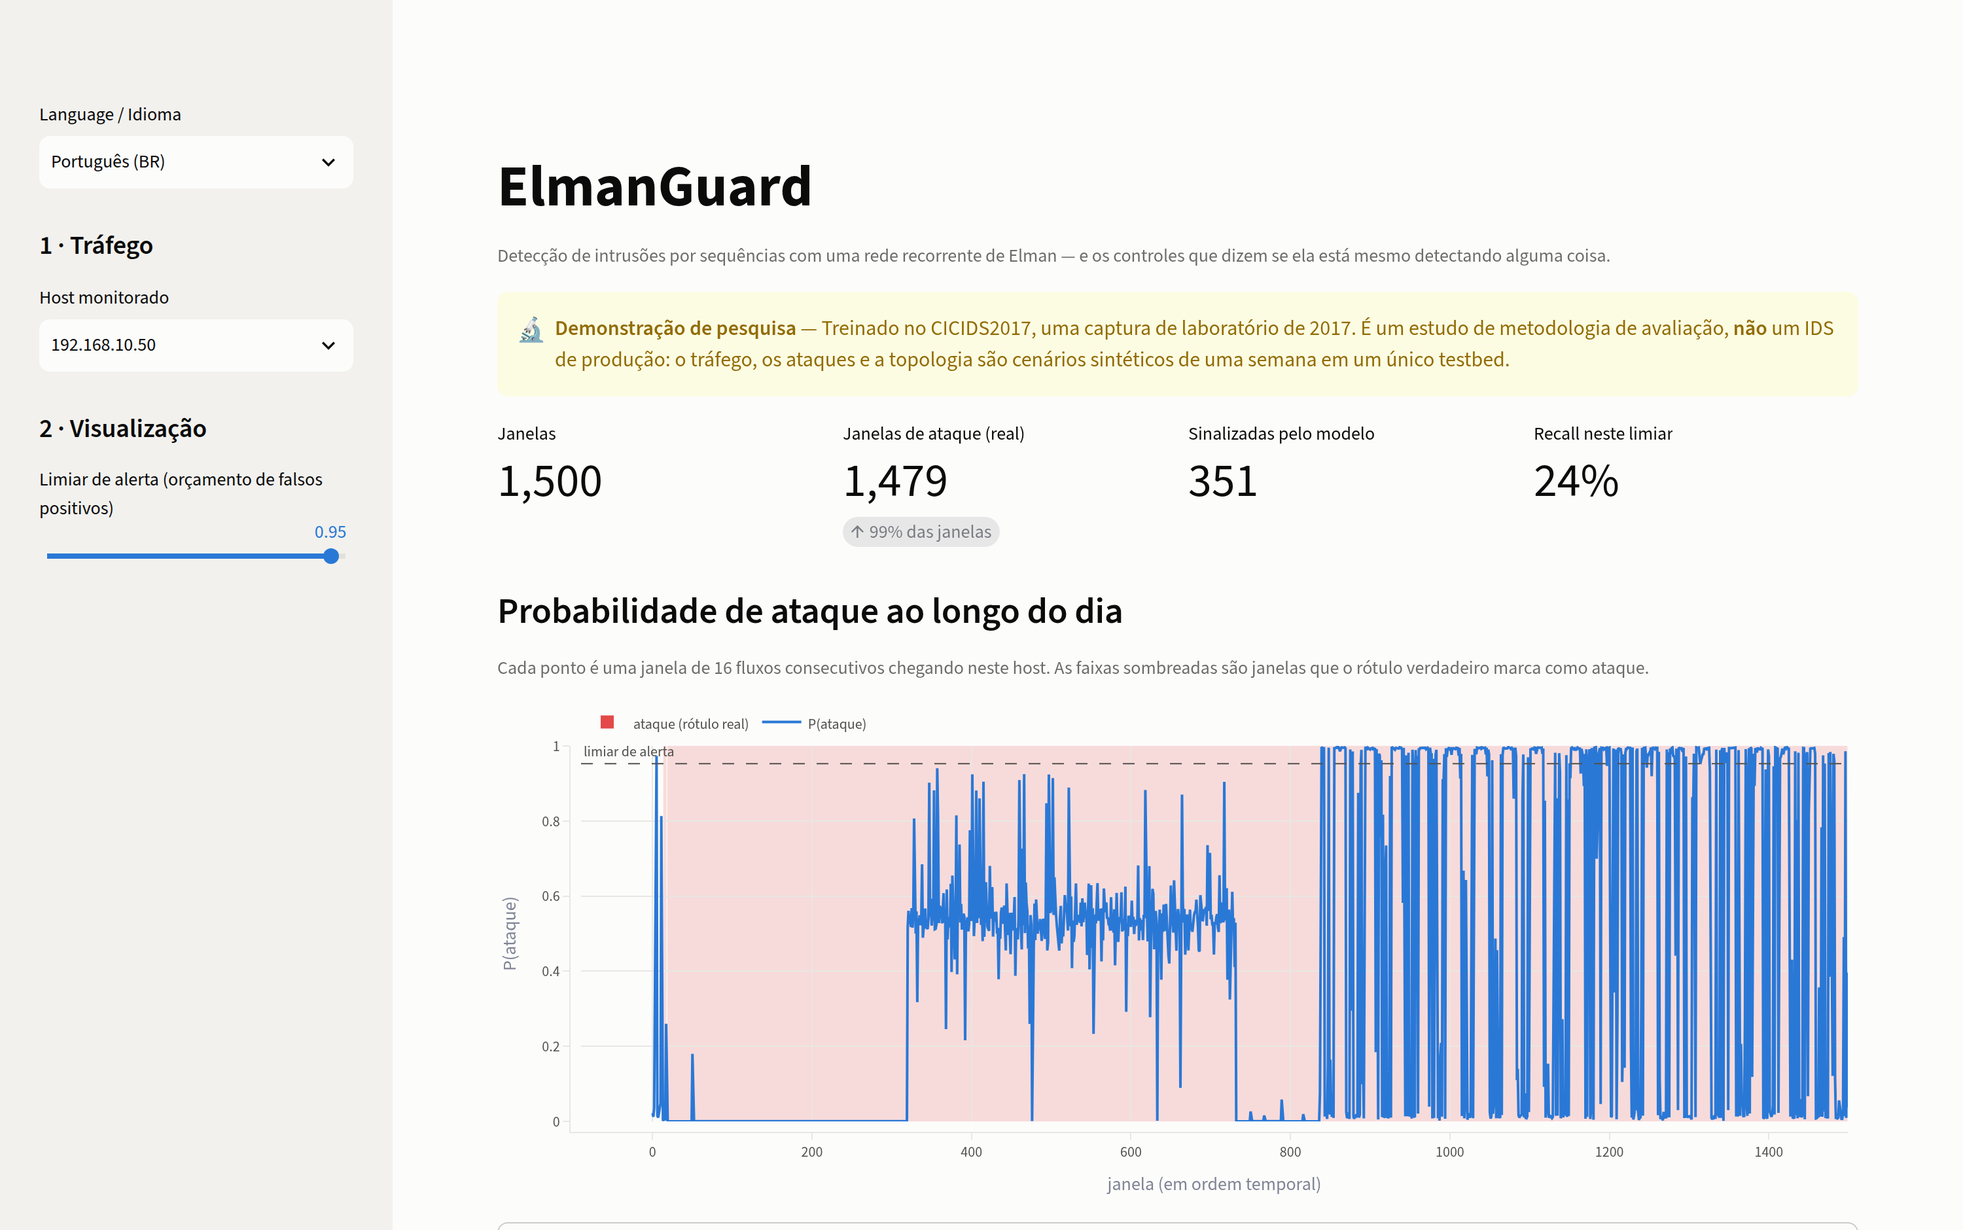
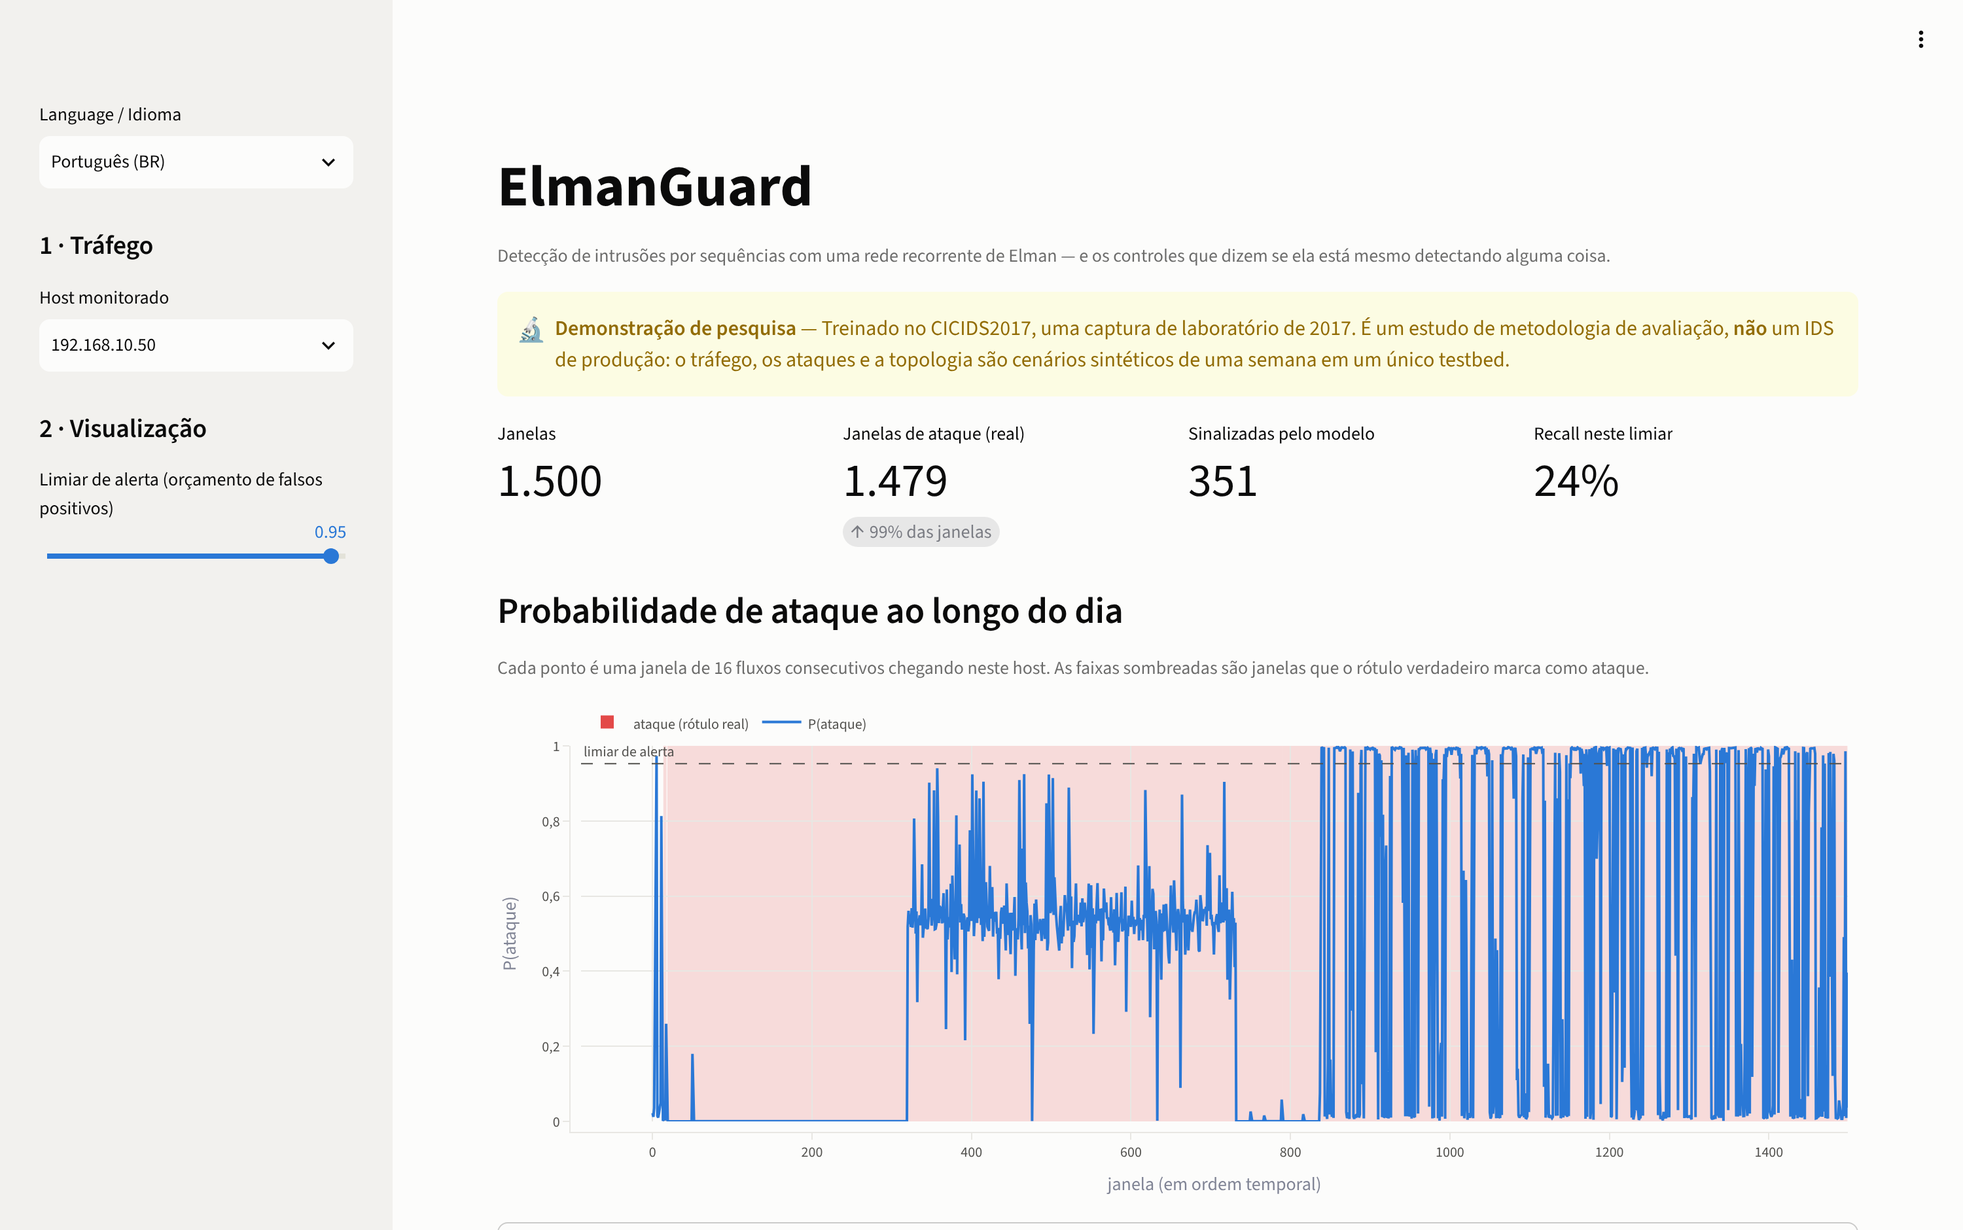
Link do app online e números em português no app

diff --git a/app.py b/app.py
@@ -21,7 +21,7 @@ import streamlit as st  # noqa: E402
 
 from elmanguard.config import DEFAULT  # noqa: E402
 from elmanguard.features import FeaturePipeline  # noqa: E402
-from elmanguard.i18n import LANGUAGES, pretty, t  # noqa: E402
+from elmanguard.i18n import LANGUAGES, num, plot_separators, pretty, styled, t  # noqa: E402
 from elmanguard.plotting import comparison_figure, confusion_heatmap, timeline_figure  # noqa: E402
 
 MODELS = ROOT / "models"
@@ -80,6 +80,11 @@ def load_json(name):
     return json.loads(p.read_text()) if p.exists() else None
 
 
+def chart(fig) -> None:
+    fig.update_layout(separators=plot_separators(lang))
+    st.plotly_chart(fig, width="stretch", config={"displayModeBar": False})
+
+
 def pretty_label(lang: str, key: str) -> str:
     return {"en": {"true": "true type", "pred": "predicted"},
             "pt": {"true": "tipo real", "pred": "previsto"}}[lang][key]
@@ -120,22 +125,21 @@ else:
     recall = float(((scores >= threshold) & (y == 1)).sum() / max(int(y.sum()), 1))
 
     c1, c2, c3, c4 = st.columns(4)
-    c1.metric(t(lang, "metric_windows"), f"{mask.sum():,}")
-    c2.metric(t(lang, "metric_attack"), f"{int(y.sum()):,}",
+    c1.metric(t(lang, "metric_windows"), num(lang, int(mask.sum())))
+    c2.metric(t(lang, "metric_attack"), num(lang, int(y.sum())),
               t(lang, "metric_attack_delta", pct=f"{y.mean():.0%}"), delta_color="off")
-    c3.metric(t(lang, "metric_flagged"), f"{flagged:,}")
+    c3.metric(t(lang, "metric_flagged"), num(lang, flagged))
     c4.metric(t(lang, "metric_recall"), f"{recall:.0%}")
 
     st.subheader(t(lang, "timeline_title"))
     st.caption(t(lang, "timeline_help"))
-    st.plotly_chart(
+    chart(
         timeline_figure(times.to_numpy(), scores, y, threshold,
                         {"score": t(lang, "p_attack"),
                          "truth": "ground-truth attack" if lang == "en" else "ataque (rótulo real)",
                          "threshold": "alert threshold" if lang == "en" else "limiar de alerta",
                          "x": "window (in time order)" if lang == "en" else "janela (em ordem temporal)",
                          "y": t(lang, "p_attack")}, dark=dark),
-        width="stretch", config={"displayModeBar": False},
     )
 
     table = pd.DataFrame({
@@ -143,7 +147,7 @@ else:
         "attack_type": demo["attack_type"][mask],
     }).sort_values("time")
     with st.expander("🔢 " + t(lang, "window_table")):
-        st.dataframe(table, width="stretch", height=300)
+        st.dataframe(styled(table, lang), width="stretch", height=300)
     st.download_button(
         t(lang, "download"), table.to_csv(index=False).encode(),
         file_name=f"elmanguard_{host}.csv", mime="text/csv",
@@ -161,17 +165,16 @@ if reports["pooled"] is None:
 else:
     cols = [c for c in ("pr_auc_mean", "pr_auc_std", "recall_mean", "precision_mean", "f1_mean")
             if c in reports["pooled"].columns]
-    st.dataframe(pretty(reports["pooled"][cols], lang), width="stretch")
-    st.plotly_chart(
-        comparison_figure(reports["pooled"],
-                          {"floor": t(lang, "prevalence_floor_label")}, dark=dark, lang=lang),
-        width="stretch", config={"displayModeBar": False},
-    )
+    st.dataframe(styled(pretty(reports["pooled"][cols], lang), lang), width="stretch")
+    chart(comparison_figure(reports["pooled"],
+                            {"floor": t(lang, "prevalence_floor_label")}, dark=dark, lang=lang))
     if reports["per_attack"] is not None:
         st.caption("Recall by attack type — every type below is unseen during training."
                    if lang == "en" else
                    "Recall por tipo de ataque — todos os tipos abaixo são inéditos no treino.")
-        st.dataframe(pretty(reports["per_attack"], lang), width="stretch")
+        # The prevalence floor has no per-type recall: drop columns with nothing in them.
+        per_attack = reports["per_attack"].dropna(axis=1, how="all")
+        st.dataframe(styled(pretty(per_attack, lang), lang), width="stretch")
 
 
 if reports["random"] is not None and reports["temporal"] is not None and reports["pooled"] is not None:
@@ -181,7 +184,7 @@ if reports["random"] is not None and reports["temporal"] is not None and reports
     frames = [reports["random"], reports["temporal"], reports["pooled"]]
     models = [m for m in ("elman", "window_mlp", "logistic") if all(m in f.index for f in frames)]
     ladder = pd.DataFrame({n: f.loc[models + ["prevalence_floor"], "pr_auc_mean"] for n, f in zip(names, frames)})
-    st.dataframe(pretty(ladder, lang).style.format("{:.3f}"), width="stretch")
+    st.dataframe(styled(pretty(ladder, lang), lang), width="stretch")
     leaks = [load_json(p) for p in ("random_split/summary.json", "temporal_split/summary.json", "summary.json")]
     leak_txt = " · ".join(
         f"{n}: {j['test_windows_sharing_a_training_flow']:.0%}" for n, j in zip(names, leaks)
@@ -197,32 +200,29 @@ if reports["mc_summary"] is not None:
     st.markdown(t(lang, "mc_intro"))
     cols = [c for c in ("macro_f1_mean", "macro_f1_std", "balanced_accuracy_mean", "weighted_f1_mean")
             if c in reports["mc_summary"].columns]
-    st.dataframe(pretty(reports["mc_summary"][cols], lang).style.format("{:.3f}"), width="stretch")
+    st.dataframe(styled(pretty(reports["mc_summary"][cols], lang), lang), width="stretch")
     mc_meta = load_json("multiclass/summary.json")
     if mc_meta and mc_meta.get("excluded"):
         st.caption(t(lang, "mc_excluded", items=", ".join(f"{k} ({v})" for k, v in mc_meta["excluded"].items())))
     if reports["mc_cm"] is not None:
-        st.plotly_chart(
-            confusion_heatmap(reports["mc_cm"], {"true": pretty_label(lang, "true"),
-                                                 "pred": pretty_label(lang, "pred")}, dark=dark),
-            width="stretch", config={"displayModeBar": False},
-        )
+        chart(confusion_heatmap(reports["mc_cm"], {"true": pretty_label(lang, "true"),
+                                                   "pred": pretty_label(lang, "pred")}, dark=dark))
         st.caption(t(lang, "mc_cm_caption"))
     if reports["mc_per_class"] is not None:
-        st.dataframe(pretty(reports["mc_per_class"], lang).style.format("{:.3f}"), width="stretch")
+        st.dataframe(styled(pretty(reports["mc_per_class"], lang), lang), width="stretch")
     if reports["mc_ablation"] is not None:
         st.markdown(t(lang, "mc_ablation"))
-        st.dataframe(pretty(reports["mc_ablation"], lang).style.format("{:.3f}"), width="stretch")
+        st.dataframe(styled(pretty(reports["mc_ablation"], lang), lang), width="stretch")
 
 with st.expander("🎯 " + t(lang, "control_title"), expanded=True):
     st.markdown(t(lang, "control_intro"))
     if reports["within_host"] is not None:
-        st.dataframe(pretty(reports["within_host"], lang), width="stretch")
+        st.dataframe(styled(pretty(reports["within_host"], lang), lang), width="stretch")
 
 with st.expander("🔀 " + t(lang, "ablation_title"), expanded=True):
     st.markdown(t(lang, "ablation_intro"))
     if reports["ablation"] is not None:
-        st.dataframe(pretty(reports["ablation"], lang), width="stretch")
+        st.dataframe(styled(pretty(reports["ablation"], lang), lang), width="stretch")
 
 with st.expander("🧠 " + t(lang, "how_title")):
     doc = ROOT / "docs" / f"how_it_works.{lang}.md"

diff --git a/src/elmanguard/i18n.py b/src/elmanguard/i18n.py
@@ -217,6 +217,28 @@ COLUMN_NAMES: dict[str, dict[str, str]] = {
 }
 
 
+def num(lang: str, value, spec: str = ",") -> str:
+    """Format a number the way each language writes it.
+
+    English: 1,500 and 0.341. Portuguese: 1.500 and 0,341.
+    """
+    s = format(value, spec)
+    if lang == "pt":
+        s = s.replace(",", "\0").replace(".", ",").replace("\0", ".")
+    return s
+
+
+def styled(df, lang: str, digits: int = 3):
+    """Display a results frame with the language's decimal and thousands marks."""
+    dec, thousands = (",", ".") if lang == "pt" else (".", ",")
+    return df.style.format(precision=digits, decimal=dec, thousands=thousands, na_rep="—")
+
+
+def plot_separators(lang: str) -> str:
+    """Plotly's `separators` layout value: decimal mark first, then thousands."""
+    return ",." if lang == "pt" else ".,"
+
+
 def pretty(df, lang: str):
     """Rename a results frame's index and columns for display."""
     models = MODEL_NAMES.get(lang, MODEL_NAMES["en"])

diff --git a/src/elmanguard/plotting.py b/src/elmanguard/plotting.py
@@ -110,8 +110,11 @@ def comparison_figure(summary: pd.DataFrame, labels: dict[str, str], dark: bool 
         x=[names.get(i, i) for i in df.index], y=df["pr_auc_mean"],
         error_y=dict(type="data", array=df.get("pr_auc_std"), color=c["ink_soft"], width=6),
         marker=dict(color=c["score"], line=dict(width=0)),
-        text=[f"{v:.3f}" for v in df["pr_auc_mean"]], textposition="outside",
-        textfont=dict(color=c["ink_soft"], size=11), name="PR-AUC",
+        # A d3 template rather than Python-formatted text, so the layout's
+        # `separators` setting can give Portuguese its decimal comma.
+        # Labels sit at the foot of each bar: on top, the error bar runs through them.
+        texttemplate="%{y:.3f}", textposition="inside", insidetextanchor="start",
+        textangle=0, textfont=dict(color="#ffffff", size=12), name="PR-AUC",
         hovertemplate="%{x}: %{y:.4f}<extra></extra>",
     ))
     if floor is not None:

diff --git a/tests/test_app.py b/tests/test_app.py
@@ -31,3 +31,19 @@ def test_app_renders_without_errors(language):
     assert len(labels) == 4, labels
     expected = "Janelas" if language.startswith("Português") else "Windows"
     assert labels[0] == expected
+    # The demo host has 1,500 windows: written 1.500 in Portuguese.
+    windows = at.metric[0].value
+    assert windows == ("1.500" if language.startswith("Português") else "1,500"), windows
+
+
+@pytest.mark.parametrize("value, spec, en, pt", [
+    (1500, ",", "1,500", "1.500"),
+    (1234567, ",", "1,234,567", "1.234.567"),
+    (0.3414, ".3f", "0.341", "0,341"),
+    (12345.678, ",.2f", "12,345.68", "12.345,68"),
+])
+def test_numbers_follow_the_language(value, spec, en, pt):
+    from elmanguard.i18n import num
+
+    assert num("en", value, spec) == en
+    assert num("pt", value, spec) == pt

diff --git a/README.md b/README.md
@@ -7,13 +7,13 @@
 <p align="center">
   <img alt="Python" src="https://img.shields.io/badge/python-3.11%20%7C%203.12-3776ab?logo=python&logoColor=white">
   <img alt="TensorFlow" src="https://img.shields.io/badge/TensorFlow-2.21-ff6f00?logo=tensorflow&logoColor=white">
-  <img alt="Streamlit" src="https://img.shields.io/badge/Streamlit-app-ff4b4b?logo=streamlit&logoColor=white">
+  <a href="https://elman-guard-apps4fvjn5n5fsk4kb9v2wv.streamlit.app/"><img alt="Abrir o app" src="https://img.shields.io/badge/Streamlit-abrir_o_app-ff4b4b?logo=streamlit&logoColor=white"></a>
   <img alt="Dataset" src="https://img.shields.io/badge/dataset-CICIDS2017-1baf7a">
   <img alt="License" src="https://img.shields.io/badge/licença-MIT-2a78d6">
   <a href="https://github.com/AlanFMF/elman-guard/actions/workflows/tests.yml"><img alt="Testes" src="https://github.com/AlanFMF/elman-guard/actions/workflows/tests.yml/badge.svg"></a>
 </p>
 
-<p align="center"><a href="README.en.md">🇺🇸 Read in English</a></p>
+<p align="center"><strong><a href="https://elman-guard-apps4fvjn5n5fsk4kb9v2wv.streamlit.app/">▶ Abrir o app online</a></strong> · <a href="README.en.md">🇺🇸 Read in English</a></p>
 
 ---
 
@@ -63,6 +63,10 @@ mais é compartilhar pesos ao longo da janela, não lembrar a sequência.
 <summary><strong>O app</strong> (clique para expandir)</summary>
 
 ![App Streamlit](assets/app-pt-monitoramento.png)
+
+**[Abra o app](https://elman-guard-apps4fvjn5n5fsk4kb9v2wv.streamlit.app/)** e escolha outro servidor ou mude o limiar. Se ele
+estiver dormindo (o plano gratuito desliga apps sem visita), clique para acordá-lo
+e espere um minuto.
 
 O dia de teste no servidor atacado. O dia inteiro está sombreado porque 98,6% das
 suas janelas contêm tráfego de ataque — e a probabilidade do modelo passa longos
@@ -411,6 +415,8 @@ Entrada (16, 78) → SimpleRNN(64, tanh) → Dropout(0,2) → Dense(1, sigmoid)
 
 ## Como rodar
 
+Para só usar o app, não precisa instalar nada: [abra a versão online](https://elman-guard-apps4fvjn5n5fsk4kb9v2wv.streamlit.app/).
+
 O CICIDS2017 não é redistribuível, então a captura bruta não está no repositório.
 
 ```bash
@@ -419,8 +425,8 @@ cd elman-guard
 python -m venv .venv && source .venv/bin/activate   # Windows: .venv\Scripts\activate
 pip install -r requirements-dev.txt
 
-pytest -m "not slow"        # 37 testes, sem precisar do dataset
-pytest                      # 41: inclui as aferições do instrumento, que treinam modelos pequenos
+pytest -m "not slow"        # 41 testes, sem precisar do dataset
+pytest                      # 45: inclui as aferições do instrumento, que treinam modelos pequenos
 streamlit run app.py        # abre com o modelo treinado e uma amostra do dia de teste
 ```
 
@@ -428,7 +434,7 @@ O `requirements.txt` tem só o que o app precisa — é o que o Streamlit Cloud
 instala. O `requirements-dev.txt` acrescenta pytest e matplotlib. Python 3.11,
 verificado também em 3.12.
 
-Os 41 testes rodam no **GitHub Actions** a cada push, em dois estágios: primeiro
+Os 45 testes rodam no **GitHub Actions** a cada push, em dois estágios: primeiro
 os rápidos; depois, só se eles passarem, os que treinam modelos e aferem o
 próprio harness. O selo no topo deste README é o resultado da última execução.
 

diff --git a/README.en.md b/README.en.md
@@ -7,13 +7,13 @@
 <p align="center">
   <img alt="Python" src="https://img.shields.io/badge/python-3.11%20%7C%203.12-3776ab?logo=python&logoColor=white">
   <img alt="TensorFlow" src="https://img.shields.io/badge/TensorFlow-2.21-ff6f00?logo=tensorflow&logoColor=white">
-  <img alt="Streamlit" src="https://img.shields.io/badge/Streamlit-app-ff4b4b?logo=streamlit&logoColor=white">
+  <a href="https://elman-guard-apps4fvjn5n5fsk4kb9v2wv.streamlit.app/"><img alt="Open the app" src="https://img.shields.io/badge/Streamlit-open_the_app-ff4b4b?logo=streamlit&logoColor=white"></a>
   <img alt="Dataset" src="https://img.shields.io/badge/dataset-CICIDS2017-1baf7a">
   <img alt="License" src="https://img.shields.io/badge/license-MIT-2a78d6">
   <a href="https://github.com/AlanFMF/elman-guard/actions/workflows/tests.yml"><img alt="Tests" src="https://github.com/AlanFMF/elman-guard/actions/workflows/tests.yml/badge.svg"></a>
 </p>
 
-<p align="center"><a href="README.md">🇧🇷 Leia em português</a></p>
+<p align="center"><strong><a href="https://elman-guard-apps4fvjn5n5fsk4kb9v2wv.streamlit.app/">▶ Open the live app</a></strong> · <a href="README.md">🇧🇷 Leia em português</a></p>
 
 ---
 
@@ -63,6 +63,10 @@ over the MLP is weight sharing across the window, not memory of the sequence.
 <summary><strong>The app</strong> (click to expand)</summary>
 
 ![Streamlit app](assets/app_screenshot.png)
+
+**[Open the app](https://elman-guard-apps4fvjn5n5fsk4kb9v2wv.streamlit.app/)** and pick another server or move the threshold. If it is
+asleep (the free tier stops apps nobody has visited), click to wake it and give it a
+minute. The app opens in Portuguese; switch to English in the sidebar.
 
 The test day at the attacked server. The whole day is shaded because 98.6% of its
 windows contain attack traffic — and the model's probability spends long stretches
@@ -412,6 +416,8 @@ Input (16, 78) → SimpleRNN(64, tanh) → Dropout(0.2) → Dense(1, sigmoid)
 
 ## Run it
 
+To just use the app, nothing needs installing: [open the live version](https://elman-guard-apps4fvjn5n5fsk4kb9v2wv.streamlit.app/).
+
 CICIDS2017 is not redistributable, so the raw capture is not in the repository.
 
 ```bash
@@ -420,8 +426,8 @@ cd elman-guard
 python -m venv .venv && source .venv/bin/activate   # Windows: .venv\Scripts\activate
 pip install -r requirements-dev.txt
 
-pytest -m "not slow"        # 37 tests, no dataset needed
-pytest                      # 41: adds the instrument checks, which train small models
+pytest -m "not slow"        # 41 tests, no dataset needed
+pytest                      # 45: adds the instrument checks, which train small models
 streamlit run app.py        # opens with the trained model and a sample of the test day
 ```
 
@@ -429,7 +435,7 @@ streamlit run app.py        # opens with the trained model and a sample of the t
 installs. `requirements-dev.txt` adds pytest and matplotlib. Python 3.11, also
 verified on 3.12.
 
-All 41 tests run on **GitHub Actions** on every push, in two stages: the fast ones
+All 45 tests run on **GitHub Actions** on every push, in two stages: the fast ones
 first; then, only if they pass, the ones that train models and check the harness
 itself. The badge at the top of this README is the latest run.
 

diff --git a/README-1.md b/README-1.md
@@ -1,0 +1,56 @@
+# Olá, eu sou o Alan
+
+Bacharel em Sistemas de Informação pela Uniube e pós-graduando em **Inteligência
+Artificial e Redes Neurais** e em **Segurança da Informação e Forense Digital**
+(conclusão em dezembro de 2026). Moro em Uberlândia (MG).
+
+Gosto de projetos em que dá para medir se a coisa funciona: sistemas web com banco
+de dados de verdade, análise de dados e modelos de IA avaliados com rigor.
+
+## Projetos em destaque
+
+### 🛡 ElmanGuard — detecção de intrusões com rede neural recorrente
+
+[![Abrir o app](https://img.shields.io/badge/Streamlit-abrir_o_app-ff4b4b?logo=streamlit&logoColor=white)](https://elman-guard-apps4fvjn5n5fsk4kb9v2wv.streamlit.app/)
+[![Repositório](https://img.shields.io/badge/GitHub-elman--guard-181717?logo=github)](https://github.com/AlanFMF/elman-guard)
+[![Testes](https://github.com/AlanFMF/elman-guard/actions/workflows/tests.yml/badge.svg)](https://github.com/AlanFMF/elman-guard/actions/workflows/tests.yml)
+
+Uma rede de Elman lê sequências de fluxos de rede do CICIDS2017 e aponta ataques.
+O projeto junta as minhas duas pós: IA aplicada à segurança. O foco é a avaliação.
+O mesmo modelo vai de 0,74 a 0,34 de PR-AUC conforme o protocolo de teste, e
+controles mostram quando a rede está reconhecendo a máquina atacada em vez de
+detectar o ataque. Também classifica 12 tipos de tráfego.
+
+`Python` `TensorFlow/Keras` `scikit-learn` `pandas` `Streamlit` `GitHub Actions`
+
+### 🎮 DBO IDLE — MMORPG idle de navegador
+
+[Jogar](https://alanfmf.github.io/dbo-idle-play/) ·
+[Case técnico](https://github.com/AlanFMF/dbo-idle-showcase) ·
+[Consultas SQL](https://github.com/AlanFMF/dbo-idle-data)
+
+Jogo full stack inspirado em Dragon Ball Online. O servidor multiplayer rodou como
+piloto em uma VPS, com banco PostgreSQL e integração de pagamento homologada em
+ambiente de testes. Hoje fica no ar uma versão estática jogável.
+
+`JavaScript` `Node.js` `PostgreSQL` `WebSocket` `Canvas 2D`
+
+### 📱 App de gestão de tarefas
+
+[Repositório](https://github.com/AlanFMF/app-gestao-tarefas-flutter)
+
+Aplicativo acadêmico em Flutter com Firebase.
+
+`Flutter` `Dart` `Firebase`
+
+## Tecnologias
+
+- **Web e back-end:** JavaScript, Node.js, PHP
+- **Dados:** SQL, PostgreSQL, MySQL, Power BI, pandas
+- **IA:** Python, TensorFlow/Keras, scikit-learn, Streamlit
+- **Ferramentas:** Git, GitHub Actions, pytest, Flutter
+
+## Contato
+
+[![LinkedIn](https://img.shields.io/badge/LinkedIn-alanfmf-0a66c2?logo=linkedin&logoColor=white)](https://www.linkedin.com/in/alanfmf)
+[![E-mail](https://img.shields.io/badge/e--mail-alan.fmf%40hotmail.com-555555)](mailto:alan.fmf@hotmail.com)
